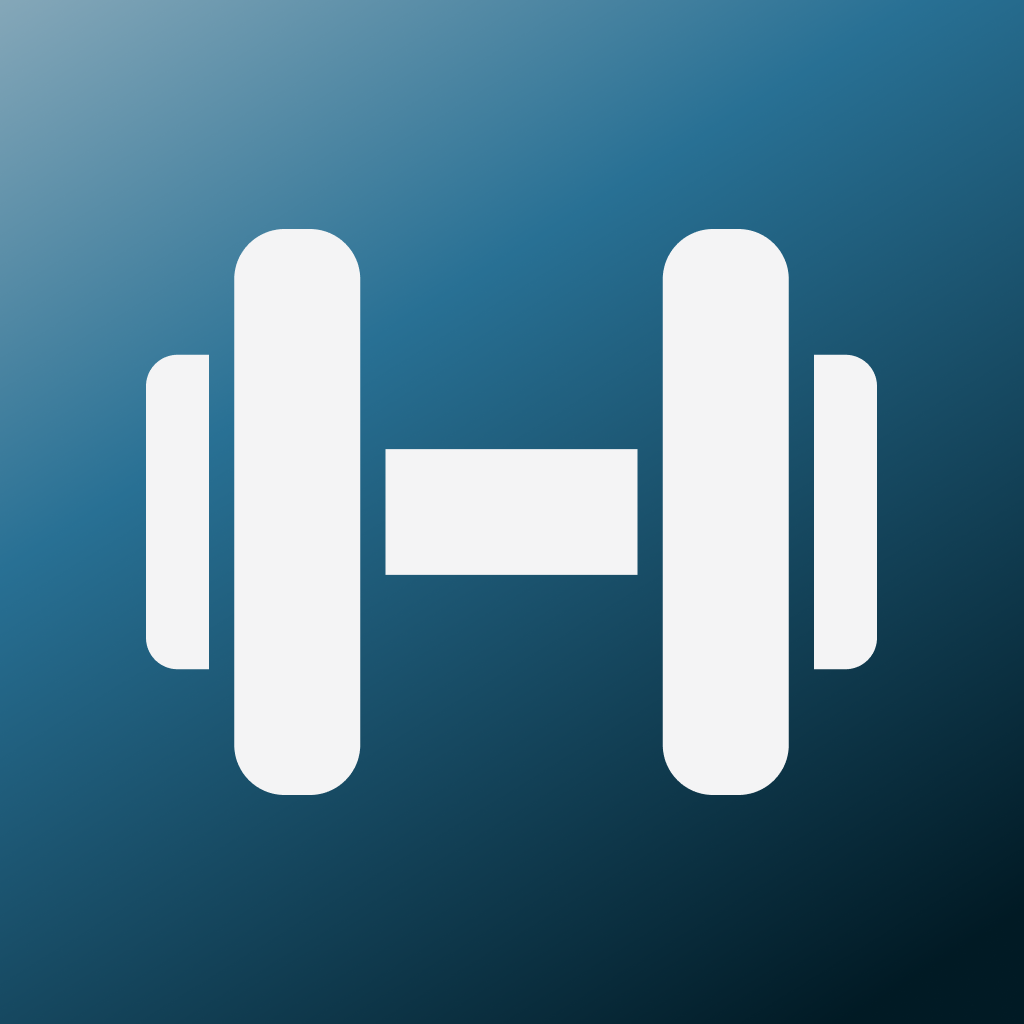
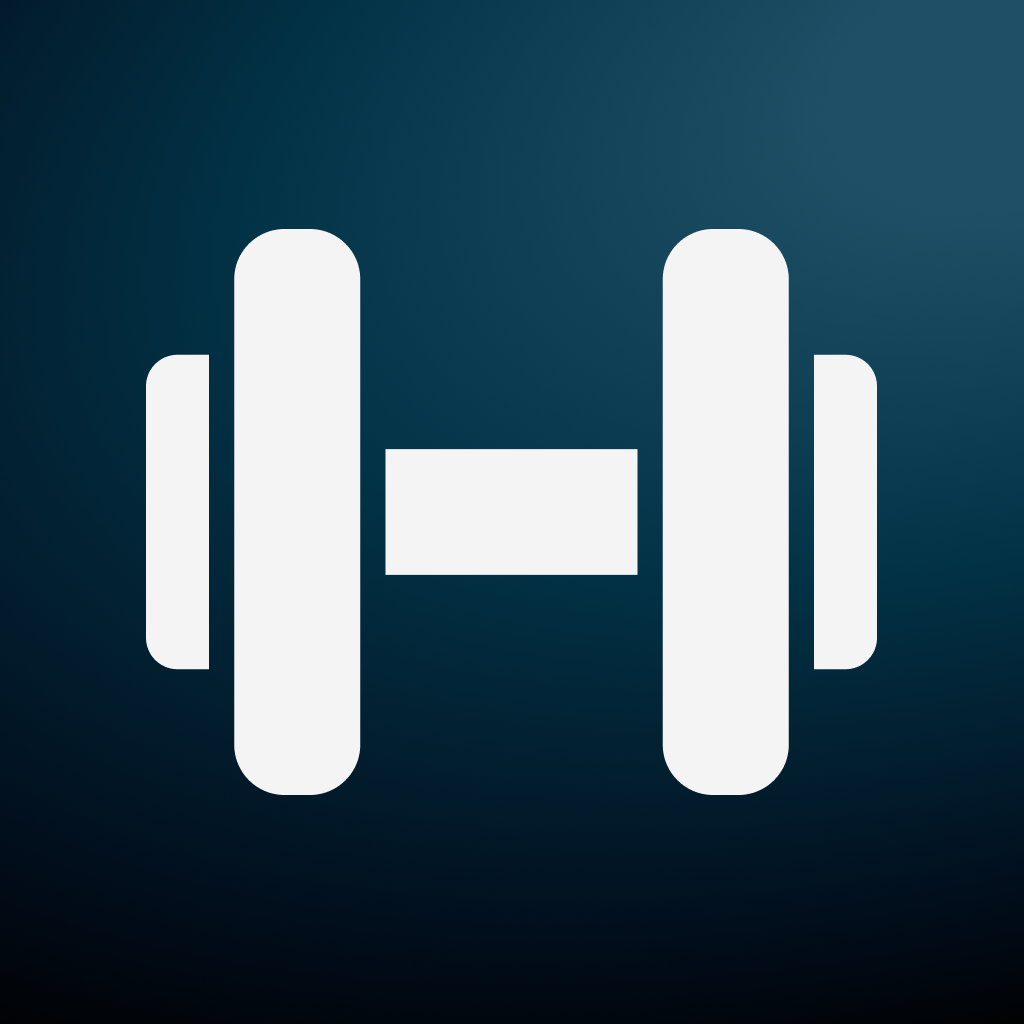
Added a new splash gradient image and updated the radial gradient parameters in the splash screen for a more dynamic look. Also made minor adjustments to the timing and navigation logic in the splash screen's initState method. Made small color change to the secondary button in the signup screen for 

diff --git a/lib/src/screens/splash.dart b/lib/src/screens/splash.dart
@@ -24,32 +24,50 @@ class _SplashScreenState extends State<SplashScreen> {
   @override
   Widget build(BuildContext context) {
     return Scaffold(
-      backgroundColor: AppTheme.darkBackground,
-      body: SafeArea(
-        child: Column(
-          mainAxisAlignment: MainAxisAlignment.spaceBetween,
-          children: [
-            const SizedBox(height: 1),
-            Center(
-              child: SvgPicture.asset(
-                'lib/assets/images/fgi_logo_white.svg',
-                height: 81.4,
-                width: 320,
-                fit: BoxFit.contain,
-              ),
-            ),
-            Padding(
-              padding: const EdgeInsets.only(bottom: 32.0),
-              child: Text(
-                'Version 1.0.0',
-                style: const TextStyle(
-                  fontSize: 14,
-                  fontWeight: FontWeight.normal,
-                  color: AppTheme.darkTextPrimary,
+      backgroundColor: Colors.transparent,
+      body: Container(
+        decoration: const BoxDecoration(
+          gradient: RadialGradient(
+            center: Alignment(0.9, -0.62),
+            radius: 1.6,
+            focal: Alignment(0.9, -0.7),
+            focalRadius: 0.001,
+            colors: [
+              Color(0xFF1F4F66), // 0%
+              Color(0xFF023246), // 28%
+              Color(0xFF010D1B), // 64%
+              Color(0xFF000000), // 100%
+            ],
+            stops: [0.0, 0.3, 0.8, 1.0],
+            transform: GradientRotation(0.25), // Rotate the gradient slightly for a more dynamic look
+          ),
+        ),
+        child: SafeArea(
+          child: Column(
+            mainAxisAlignment: MainAxisAlignment.spaceBetween,
+            children: [
+              const SizedBox(height: 1),
+              Center(
+                child: SvgPicture.asset(
+                  'lib/assets/images/fgi_logo_white.svg',
+                  height: 81.4,
+                  width: 320,
+                  fit: BoxFit.contain,
                 ),
               ),
-            ),
-          ],
+              Padding(
+                padding: const EdgeInsets.only(bottom: 32.0),
+                child: Text(
+                  'Version 1.0.0',
+                  style: const TextStyle(
+                    fontSize: 14,
+                    fontWeight: FontWeight.normal,
+                    color: AppTheme.darkTextPrimary,
+                  ),
+                ),
+              ),
+            ],
+          ),
         ),
       ),
     );

diff --git a/lib/src/screens/gym_detail.dart b/lib/src/screens/gym_detail.dart
@@ -8,7 +8,6 @@ import 'package:flutter/material.dart';
 import 'package:flex_gym_inventory/theme/app_icons.dart';
 import '../widgets/top_app_bar.dart';
 import 'package:flex_gym_inventory/routes/routes.dart';
-import '../../enum/app_enums.dart';
 import 'package:flex_gym_inventory/service/active_gym_service.dart';
 import 'package:flex_gym_inventory/service/isar_service.dart';
 import 'package:flex_gym_inventory/src/repositories/equipment_repository.dart';
@@ -119,7 +118,7 @@ class _GymDetailScreenState extends State<GymDetailScreen> {
                       const SizedBox(height: 6),
                       Text(
                         'Add equipment below',
-                        style: Theme.of(context).textTheme.bodyMedium?.copyWith(
+                        style: Theme.of(context).textTheme.bodyLarge?.copyWith(
                           color: AppTheme.lightTextPrimary,
                         ),
                         textAlign: TextAlign.center,
@@ -188,7 +187,7 @@ class _GymDetailScreenState extends State<GymDetailScreen> {
                       WarningButton(
                         label: 'Delete Gym',
                         onPressed: () {
-                          final deleteAction = () async {
+                          Future<void> deleteAction() async {
                             final service = ActiveGymService(IsarService.isar);
                             final gym = await service.getActiveGym();
                             if (gym != null) {
@@ -196,8 +195,9 @@ class _GymDetailScreenState extends State<GymDetailScreen> {
                               await repo.deleteGym(gym.id);
                               await service.clearActiveGym();
                             }
-                            if (mounted) Navigator.of(context).popUntil((route) => route.isFirst);
-                          };
+                            if (!mounted) return;
+                            Navigator.of(context).popUntil((route) => route.isFirst);
+                          }
 
                           showDialog(
                             context: context,

diff --git a/lib/src/widgets/buttons/secondary_button.dart b/lib/src/widgets/buttons/secondary_button.dart
@@ -23,8 +23,8 @@ class SecondaryButton extends StatelessWidget {
       child: OutlinedButton(
         onPressed: onPressed,
         style: OutlinedButton.styleFrom(
-          foregroundColor: AppTheme.lightPrimary,
-          side: BorderSide(color: AppTheme.lightPrimary, width: 2),
+          foregroundColor: AppTheme.lightTextPrimary,
+          side: BorderSide(color: AppTheme.lightTextPrimary, width: 2),
           shape: RoundedRectangleBorder(
             borderRadius: BorderRadius.circular(16),
           ),
@@ -32,7 +32,7 @@ class SecondaryButton extends StatelessWidget {
         child: Text(
           label,
           style: Theme.of(context).textTheme.bodyLarge?.copyWith(
-                color: AppTheme.lightPrimary,
+                color: AppTheme.lightTextPrimary,
                 fontWeight: FontWeight.bold,
               ),
         ),

diff --git a/lib/main.dart b/lib/main.dart
@@ -73,13 +73,13 @@ void main() async {
 
       // No tokens/code or session restore failed — navigate to verify email
       navigatorKey.currentState?.pushNamed(
-        AppRoutes.verifiyEmail,
+        AppRoutes.verifyEmail,
         arguments: params,
       );
     } catch (e) {
           LogHandler.error('Deeplink', 'Error handling deeplink: $e', e, null);
       try {
-        navigatorKey.currentState?.pushNamed(AppRoutes.verifiyEmail, arguments: params);
+        navigatorKey.currentState?.pushNamed(AppRoutes.verifyEmail, arguments: params);
       } catch (_) {}
     }
   });
@@ -96,6 +96,7 @@ class MyApp extends StatelessWidget {
   Widget build(BuildContext context) {
     SizeConfig.init(context);
     return MaterialApp(
+      debugShowCheckedModeBanner: false,
       title: 'Flex Gym Inventory',
       navigatorKey: navigatorKey,
       theme: AppTheme.lightTheme,

diff --git a/lib/routes/routes.dart b/lib/routes/routes.dart
@@ -67,7 +67,7 @@ class AppRoutes {
   // Auth routes
   static const String signup = '/signup';
   static const String login = '/login';
-  static const String verifiyEmail = '/verify-email';
+  static const String verifyEmail = '/verify-email';
   static const String optNotifications = '/opt-notifications';
   static const String onboardingFeatureOne = '/onboarding-feature-one';
   static const String onboardingFeatureTwo = '/onboarding-feature-two';
@@ -120,7 +120,7 @@ final Map<String, WidgetBuilder> appRoutes = {
   // Auth routes
   AppRoutes.signup: (context) => const SignupScreen(),
   AppRoutes.login: (context) => const LoginScreen(),
-  AppRoutes.verifiyEmail: (context) => const VerifyEmailScreen(),
+  AppRoutes.verifyEmail: (context) => const VerifyEmailScreen(),
   AppRoutes.optNotifications: (context) => const OptNotificationsScreen(),
   AppRoutes.onboardingFeatureOne: (context) => const OnboardingFeatureOneScreen(),
   AppRoutes.onboardingFeatureTwo: (context) => const OnboardingFeatureTwoScreen(),

diff --git a/lib/src/screens/signup.dart b/lib/src/screens/signup.dart
@@ -60,7 +60,7 @@ class _SignupScreenState extends State<SignupScreen> {
         showFlexSnackbarFromUiMessage(context, msg);
         // If sign-up succeeded, go to verify email screen.
         if (msg.type == UiMessageType.success) {
-          Navigator.of(context).pushNamed(AppRoutes.verifiyEmail);
+          Navigator.of(context).pushNamed(AppRoutes.verifyEmail);
         }
         _signUpViewModel.clearMessage();
       }